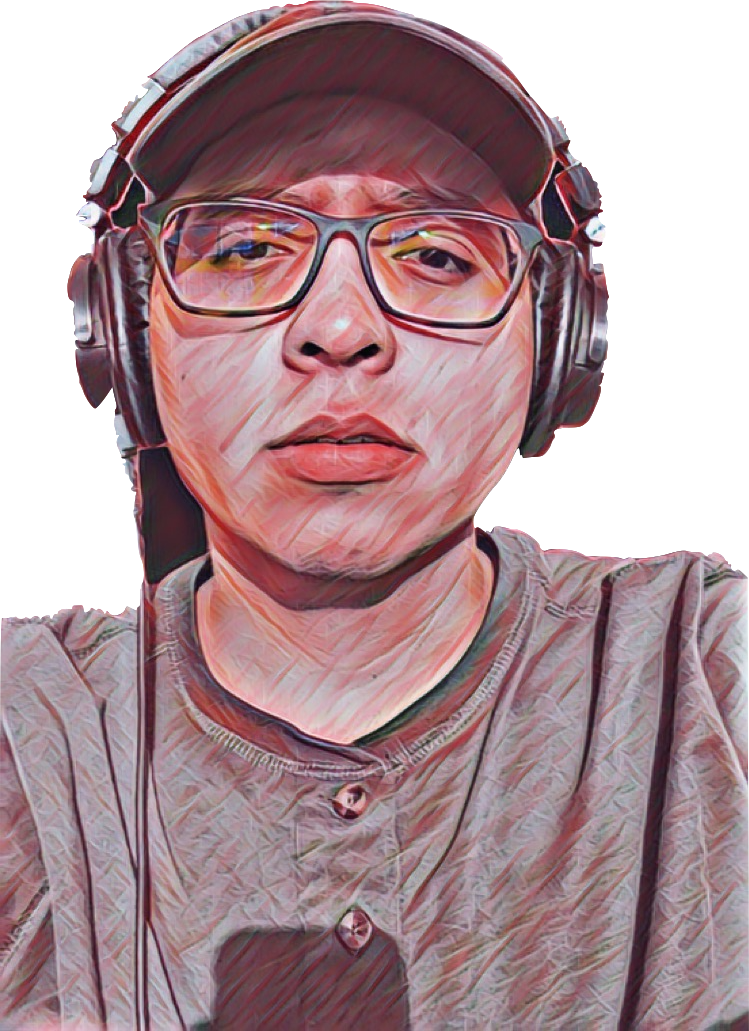
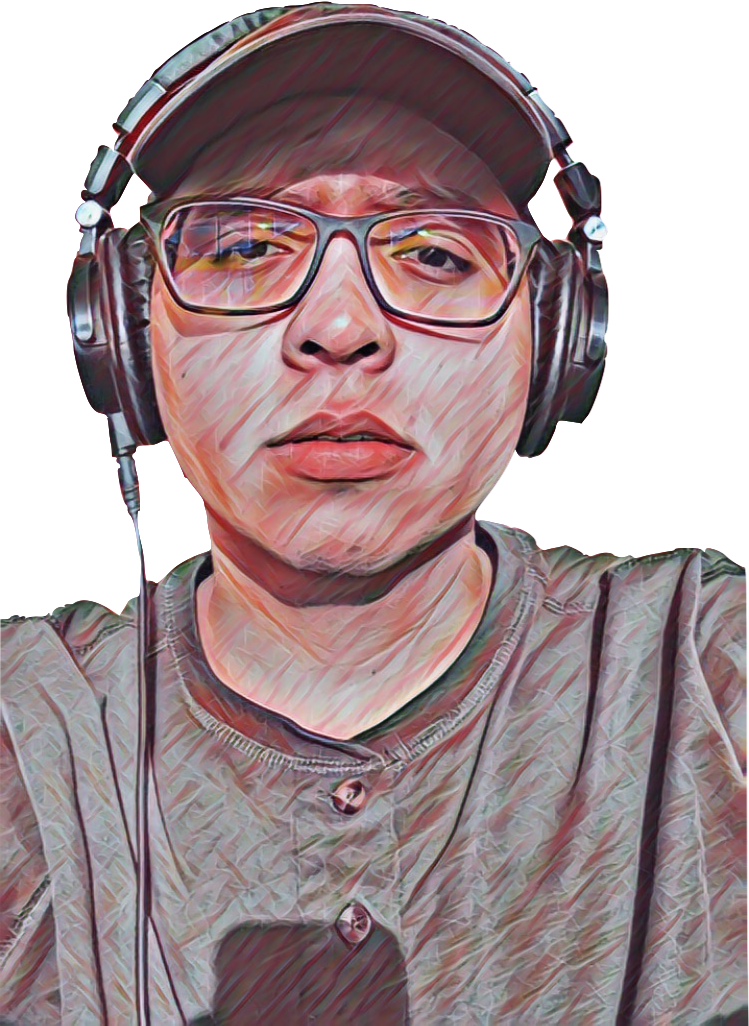
updated second pic, and made seconf pic the main pic

Changed region(s): [[0.0, 0.0, 1.0, 1.0], [0.522, 0.4366, 0.5527, 0.4678]]

diff --git a/style.css b/style.css
@@ -15,7 +15,7 @@ body a:hover {
 	color: #ffd700;
 }
 body .content {
-	background: url("me.png") no-repeat top right;
+	background: url("me2.png") no-repeat top right;
 	height: 1000px;
 	margin: 0 0 0 auto;
 	padding-left: 50px;
